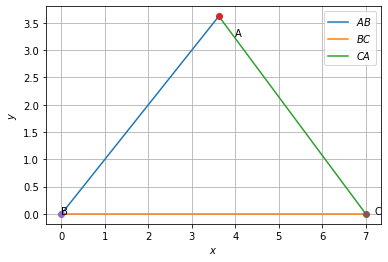
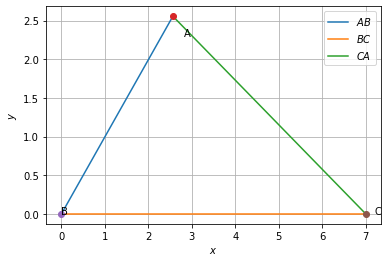
Add files via upload

Changed region(s): [[0.0619, 0.0305, 0.9588, 0.8244], [0.9278, 0.7939, 0.9588, 0.8244]]

diff --git a/Assignment1/assignment1.py b/Assignment1/assignment1.py
@@ -190,6 +190,7 @@ Original file is located at
 
 import numpy as np
 import matplotlib.pyplot as plt
+ 
 
 
 # Python Program to find Angle of  a triangle if two angles are given
@@ -204,18 +205,25 @@ print("Third angle of a triangle =",C)
 
 import numpy as np
 import math
-
-#Calculating c and b
+ 
 A = [[np.sqrt(3)+1,0],[0,np.sqrt(3)+1]]
 B = [14,7*math.sqrt(2)]
 X =np.linalg.solve(A,B)
+
 print(X)
+
+#Triangle sides
+a = 7
+b = 5.12
+c = 3.62
+p = (a**2 + c**2-b**2)/(2*a)
+q = np.sqrt(c**2-p**2)
 
 
 #Triangle vertices
-A = np.array([3.62,3.62]) 
+A = np.array([p,q]) 
 B = np.array([0,0]) 
-C = np.array([7,0]) 
+C = np.array([a,0]) 
 
 
 #Generating all lines

diff --git a/Assignment1/main.tex b/Assignment1/main.tex
@@ -210,7 +210,7 @@ Now, vertices of given $\triangle ABC$ can be written as,
 \\
 \vec{B} &=\myvec{0\\0}
 \\
-\vec{c} &=\myvec{a\\0}=\myvec{7\\0}
+\vec{C} &=\myvec{a\\0}=\myvec{7\\0}
 \end{align}
 \\
 Now,$\triangle ABC$ can be plotted using vertices $a$ ,$b$ and $c$
